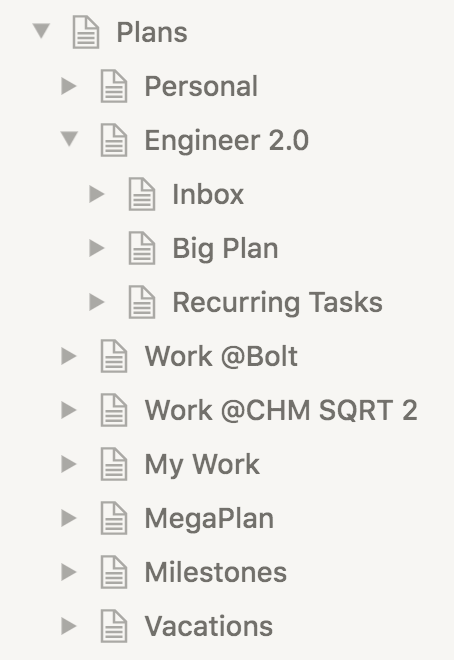
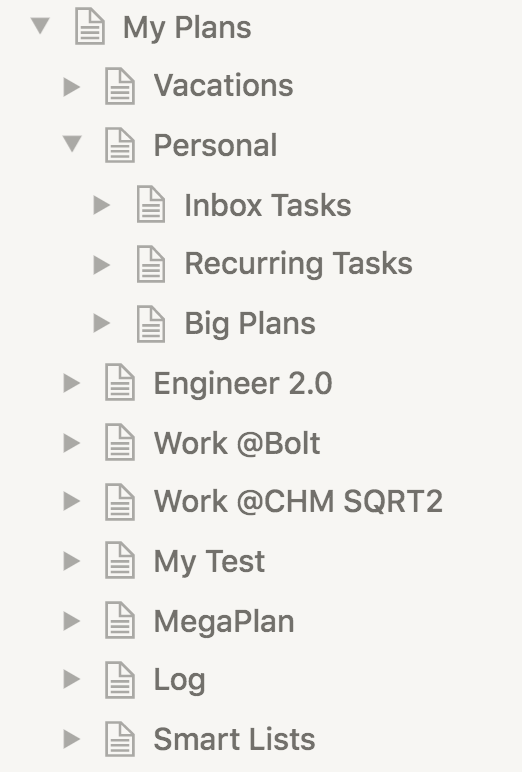
Add docs for smart lists

Changed region(s): [[0.0617, 0.0, 0.9251, 1.0]]

diff --git a/docs/concepts/smart-lists.md b/docs/concepts/smart-lists.md
@@ -1,0 +1,58 @@
+# Smart Lists
+
+Smart lists are list for recording things! Organised people often keep lists. For example of
+things they've done or plan to do. And they can be for anything: movies, books, courses,
+songs, places, restaurants, etc. Lists are good for long term planning as they can allow
+the construction of a plan outside of the formal constraints of [big plans](big-plans.md).
+
+In the workspace overview, you can view the set of smart lists:
+
+![Smart lists](../assets/concepts-smart-lists-overview.png)
+
+Each smart list contains many items, for example:
+
+![Smart list items](../assets/concepts-smart-list-items.png)
+
+Much like [projects](projects.md), smart lists are created via the
+`jupiter smart-list-create --key $smartListKey --name "Smart List Name"` command. The command is
+idempotent. The key plays the same part it does for a project, is a unique identifier for the
+smart list, and must be some nice string with no spaces or funny characters like `books` or `movies`.
+It will be used as a reference to the project in other commands.
+
+On their own, smart lists have a single property - their name.
+
+## Interaction Summary
+
+You can:
+
+* Create a smart list via `smart-lists-create`.
+* Remove a smart list via `smart-lists-archive`.
+* Change the name via `smart-lists-set-name`, or by changing the name of the page in Notion.
+* See a summary of the smart lists via `smart-lists-show`.
+
+## Items
+
+Smart list items are the actual books you want to read, movies you've seen, or courses you've attended.
+They are attached to a particular smart list.
+
+For example, you can have a smart list item like "The Godfather", or "Trafalgar Square", in your list of
+movies, and places to visit, respectively.
+
+Smart list items have a name.
+
+Smart list items also have an optional url. It can be used to provide extra information about the particular item,
+such as an Amazon link where it can be bought, or the actual link of the actual interesting article you want to
+read.
+
+In general, you're going to create smart list items from Notion, and use [sync](notion-local-sync.md) to bring them
+over to the [local store](local-storage.md).
+
+## Items Interaction Summary
+
+You can:
+
+* Create a smart list item via `smart-lists-item-create`, or by creating a new entry in the appropriate Notion table.
+* Remove a smart list item via `smart-lists-item-archive`, or by clicking the archive checkbox in Notion.
+* Change the name of a smart list item via `smart-list-item-set-name`, or by changing the name from the Notion row.
+* Change the url of a smart list item via `smart-list-item-set-url`, or by changing the URL field from the Notion row.
+* Show info about the smart list items via `smart-list-item-show`.

diff --git a/docs/concepts/projects.md b/docs/concepts/projects.md
@@ -8,11 +8,11 @@ For example, you can have a project for your personal goal tracking, and one for
 your career goal tracking etc. In most cases just one or two projects are enough,
 and they should be very long lived things.
 
-Projects are created via the `jupiter project-create $projectKey --name "Project Name"`
-command.
-
-`jupiter project-create` is idempotent, and is a good way to update projects as
-newer versions of the tool appear.
+Projects are created via the `jupiter project-create --key $projectKey --name "Project Name"`
+command. `jupiter project-create` is idempotent. There's no way to create a project from Notion
+however. The key is a unique identifier for the project, and must be some nice string with no spaces
+or funny characters like `personal` or `work`. It will be used as a reference to the project
+in other commands.
 
 After creating a project, you’ll see something like the following in the Notion
 left hand bar - here with two Jupiter created pages (“Inbox” and “Big Plan”) and one
@@ -28,7 +28,7 @@ On their own, projects have a single property - their name.
 
 You can:
 
-* Create a project via `project-create`.
-* Remote a project via `project-remove`.
-* Synchronise changes between the local store and Notion via `vacations-sync`.
-* See a summary of the workspace via `vacations-show`.
+* Create a project via `projects-create`.
+* Remove a project via `projects-archive`.
+* Change the name via `projects-set-name`.
+* See a summary of the projects via `projects-show`.

diff --git a/docs/roadmap.md b/docs/roadmap.md
@@ -5,7 +5,6 @@ be stable and fast, and have sufficient supporting infrastructure (website, docs
 
 New features:
 
-* Support lists
 * Support metrics
 * Support a journal
 * Support habits as separated from chores
@@ -36,5 +35,5 @@ Beyond this the plans get _ambitious_. Here's some product-wise plans:
 * Allow task creation via email or chatbots
 * Build a Slack app and allow control via Slack commands
 * Integrate with Google calendar / iCal for task source, as well as to export a calendar with all the tasks
-* Integrate with YouTube, Spotify, Apple Music, Amazon, etc for rich lists support, playlists creation, etc
+* Integrate with YouTube, Spotify, Apple Music, Amazon, etc for smart lists support, playlists creation, etc
 * Build a hosting/SaaS setup for all of the above

diff --git a/docs/concepts/recurring-tasks.md b/docs/concepts/recurring-tasks.md
@@ -128,7 +128,8 @@ will take care to update the instance too. Only archived and removed tasks are r
 You can:
 
 * Create a recurring task via `recurring-tasks-create`, or by creating a new entry in the "Recurring Tasks" view.
-* Remove a recurring task via `recurring-tasks-remove`, or by removing the entry in the "Recurring Tasks" view.
+* Remove a recurring task via `recurring-tasks-remove`, or by clicking the archive checkbox the entry in the "Recurring
+ Tasks" view.
 * Change the name of a recurring task via `recurring-tasks-set-name`, or by changing the name of the task in Notion.
 * Change the deadline of a recurring task via `recurring-tasks-set-deadline`, or by changing the deadline of the task
   in Notion.

diff --git a/docs/concepts/overview.md b/docs/concepts/overview.md
@@ -23,6 +23,8 @@ As a quick reference, here is the list of the more important concepts:
   "Walk 10K steps".
 * _Big plan_: a larger unit of work, consisting of multiple tasks. This is normally
   something like "Plan a family vacation", or "Get a talk accepted to a conference".
+* _Smart list_: a list of things! It can record books to read, visited restaurants,
+  movies to watch, etc.
 
 The rest of the document will cover each of these in greater detail.
 

diff --git a/docs/index.md b/docs/index.md
@@ -3,7 +3,7 @@
 ## About
 
 Jupiter is a small tool for _life planning_. It provides goals management, task tracking,
-habit building, etc. all in a unified package.
+habit building, smart lists, etc. all in a unified package.
 
 I built it to [solve an issue I had](http://www.paulgraham.com/organic.html) - making sure everything
 I wanted to get done actually got done, while juggling the standard complexities of life - family, kids, career, etc.
